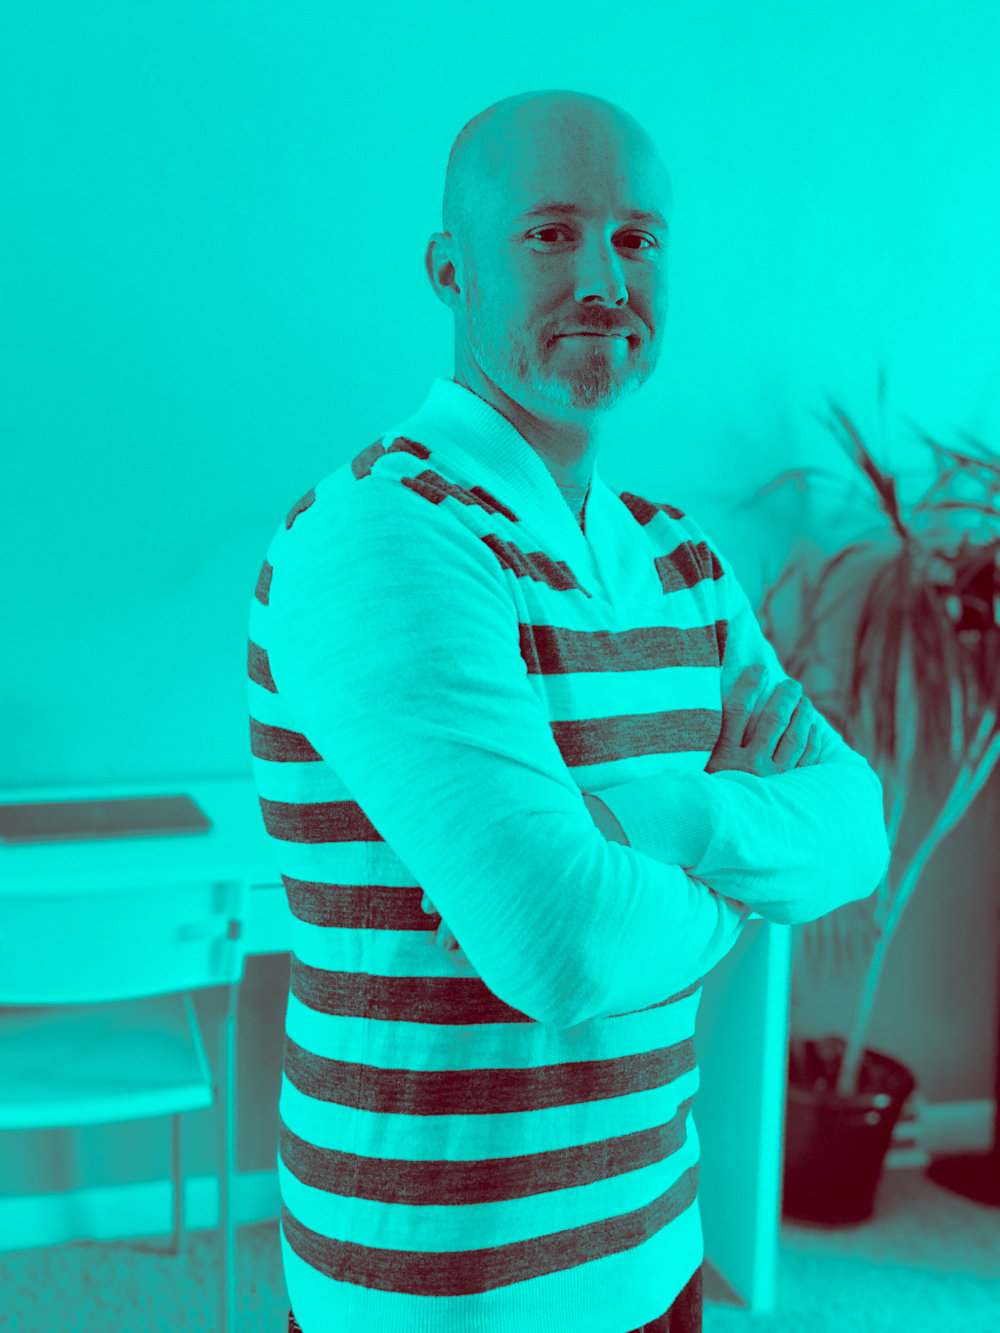
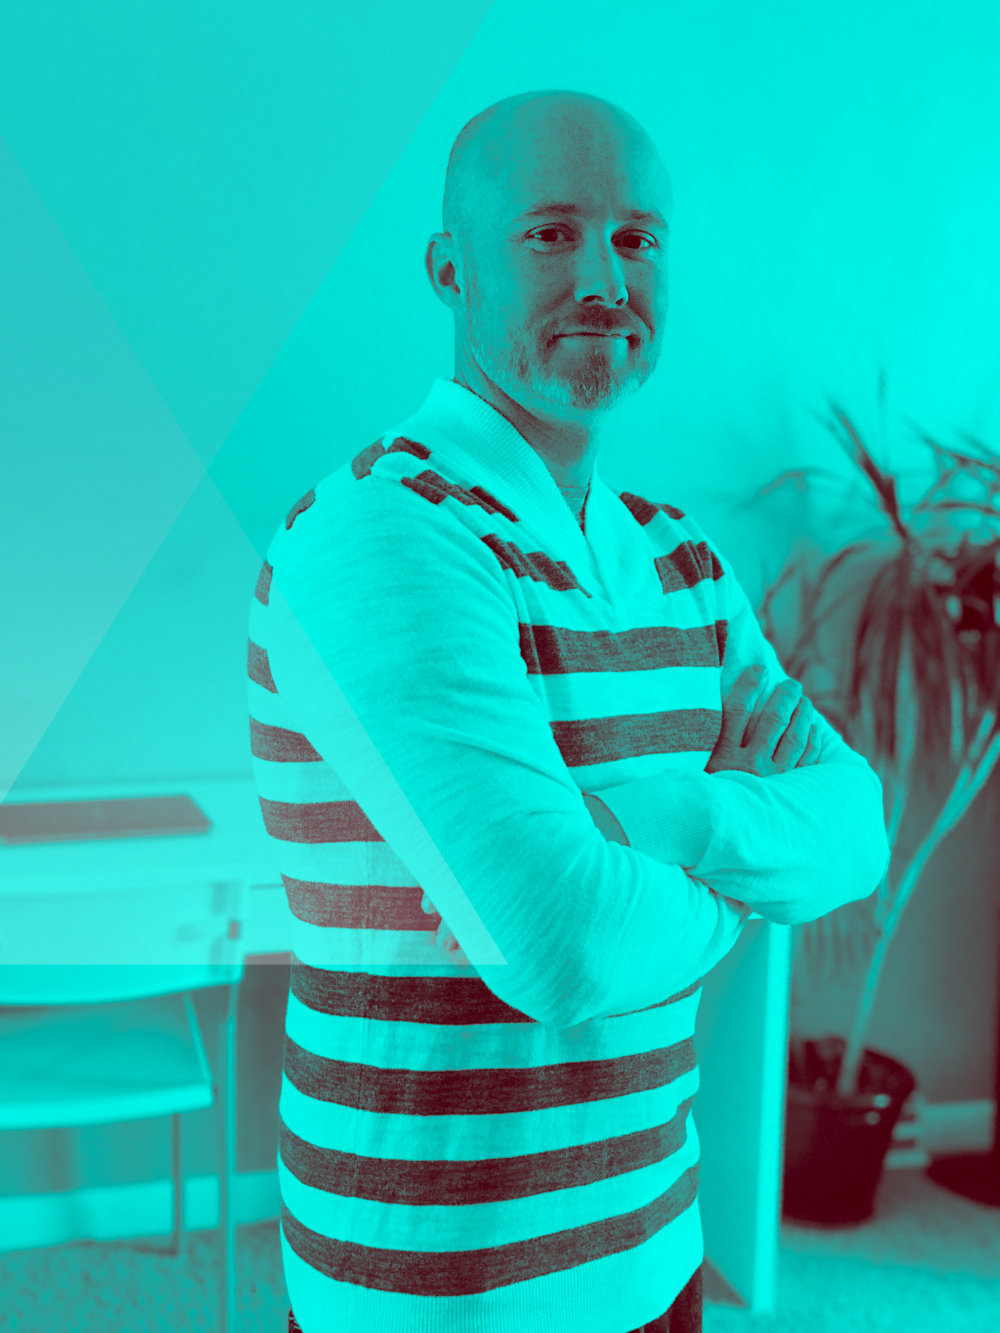
changes
added triangles to head shots
added styles for block paragraphs

Changed region(s): [[0.0, 0.0923, 0.527, 0.7382]]

diff --git a/index.html b/index.html
@@ -11,12 +11,12 @@
   </head>
   <body>
 
-    <div class="grid-x grid-padding-x">
+    <div class="grid-x grid-padding-x name-contact-bar">
       <div class="large-6 cell">
         <h1>Ben Rudolph</h1>
       </div>
       <div class="large-6 cell text-right">
-        <h2><small><a href="mailto:webdudeben@icloud.com">webdudeben@icloud.com</a> - 970-846-9749</small></h2>
+        <h2><small><a href="mailto:webdudeben@icloud.com">webdudeben@icloud.com</a></small></h2>
       </div>
     </div>
 
@@ -25,7 +25,8 @@
       <div class="large-6 cell">
         <div class="grid-x grid-padding-x">
           <div class="large-12 cell developer-block text-right">
-            <h2>Developer</h2>
+            <h2>The Developer</h2>
+            <p>Born out of the necessity to code the sites I designed, web development has become a passion for me. </p>
           </div>
           <div class="large-12 cell">
             <!-- <button type="button" class="button" data-toggle="offCanvasLeftSplit1">Open Left</button>
@@ -36,6 +37,14 @@
                 <p>I have nothing to do with the off-canvas on the right!</p>
               </div>
             </div> -->
+            <h2>Recent Projects</h2>
+            <ul>
+              <li>
+                <h3>University of Northern Colorado</h3>
+                <p>My last eight years as a developer was spent working for the University of Northern Colorado. Below are a few projects I worked on while at UNC.</p>
+              </li>
+            </ul>
+
           </div> 
         </div>
       </div>
@@ -43,7 +52,8 @@
       <div class="large-6 cell">
         <div class="grid-x grid-padding-x">
           <div class="large-12 cell designer-block">
-            <h2>Designer</h2>
+            <h2>The Designer</h2>
+            <p>From my early beginnings as a CAD operator, yearning to create, to my career as a graphic designer. </p>
           </div>
           <div class="large-12 cell">
             <!-- <button type="button" class="button" data-toggle="offCanvasRightSplit2">Open Right</button>
@@ -54,6 +64,8 @@
                 <p>Im a unique off-canvas container all on my own!</p>
               </div>
             </div> -->
+            <h2>Things I made</h2>
+            <p>For the past eight years my focus has been web development. But my passion for design has never died. </p>
           </div>
         </div>
       </div>

diff --git a/css/custom.css b/css/custom.css
@@ -16,6 +16,12 @@ h1, h2, h3, h4, h5 {
     margin: 20px 0 0 20px;
 }
 
+.designer-block p {
+    color: #2e282a;
+    margin: 20px auto 0 20px;
+    width: 200px;
+}
+
 .developer-block {
     background: url('../img/ben-developer-color-2.jpg') no-repeat right top;
     background-size: cover;
@@ -25,4 +31,19 @@ h1, h2, h3, h4, h5 {
 .developer-block h2 {
     color: #fff;
     margin: 20px 20px 0 0;
+}
+
+.developer-block p {
+    color: #2e282a;
+    margin: 20px 20px 0 auto;
+    width: 200px;
+}
+
+.name-contact-bar {
+    padding: 20px 20px 0px 20px;
+}
+
+.name-contact-bar small {
+    font-size: 60%;
+    color: 
 }
